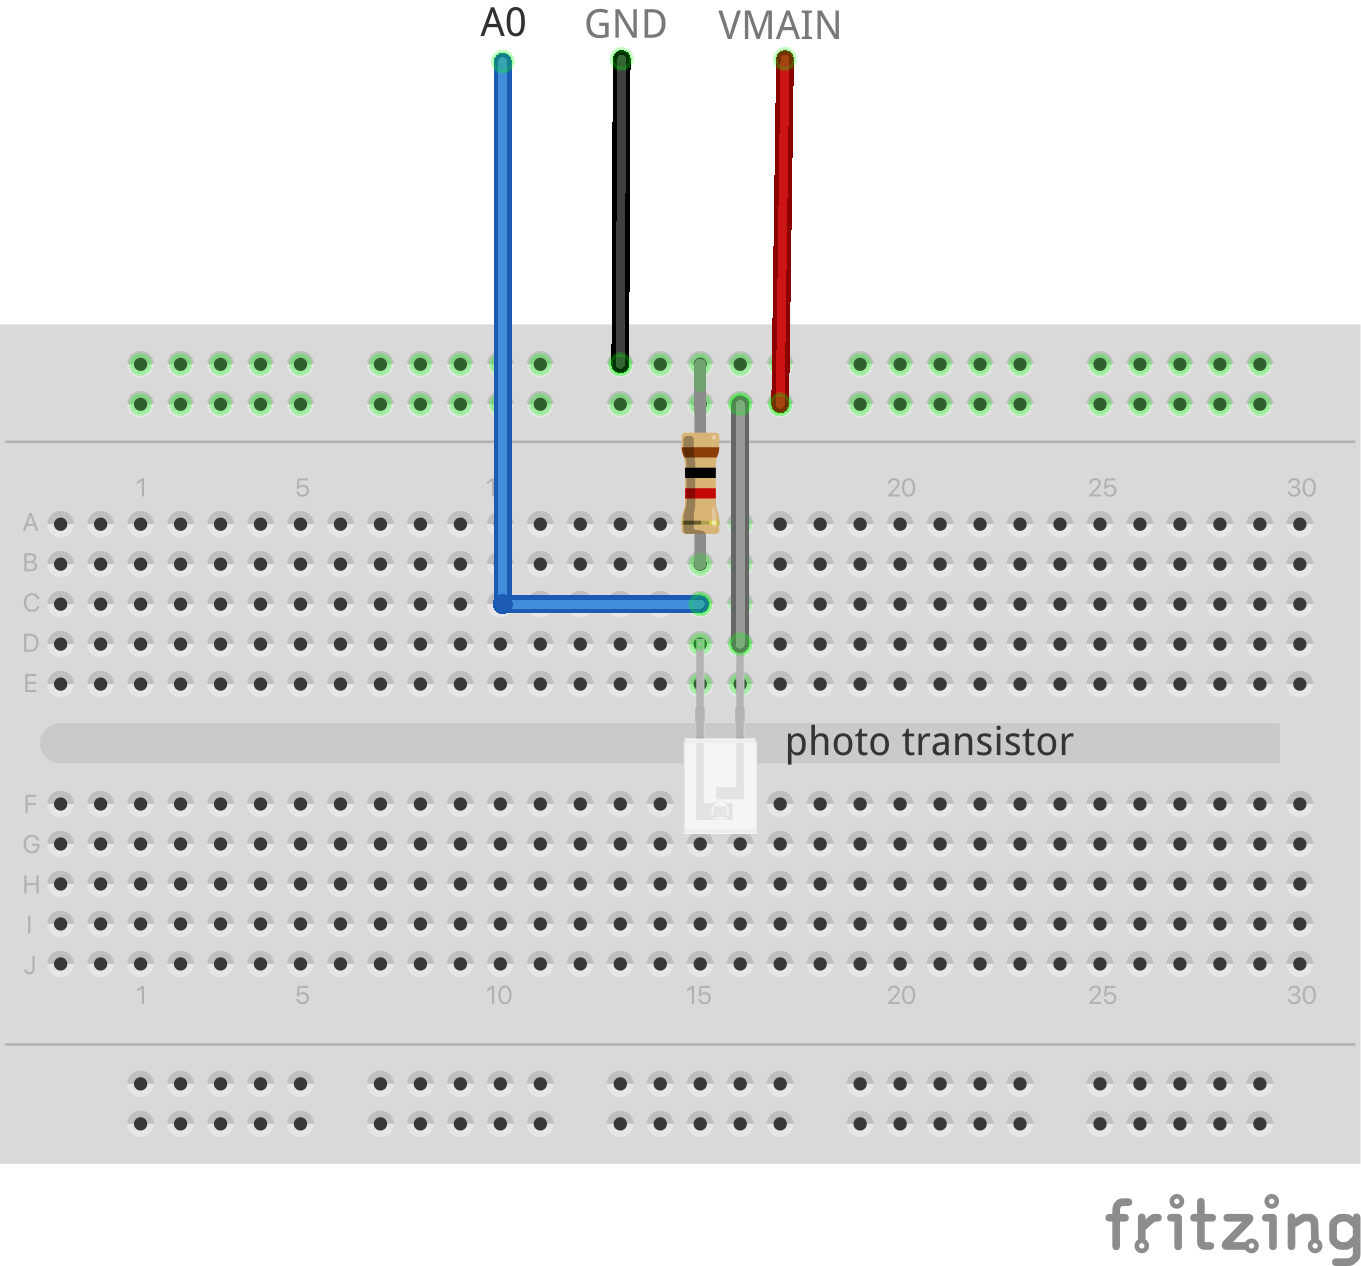
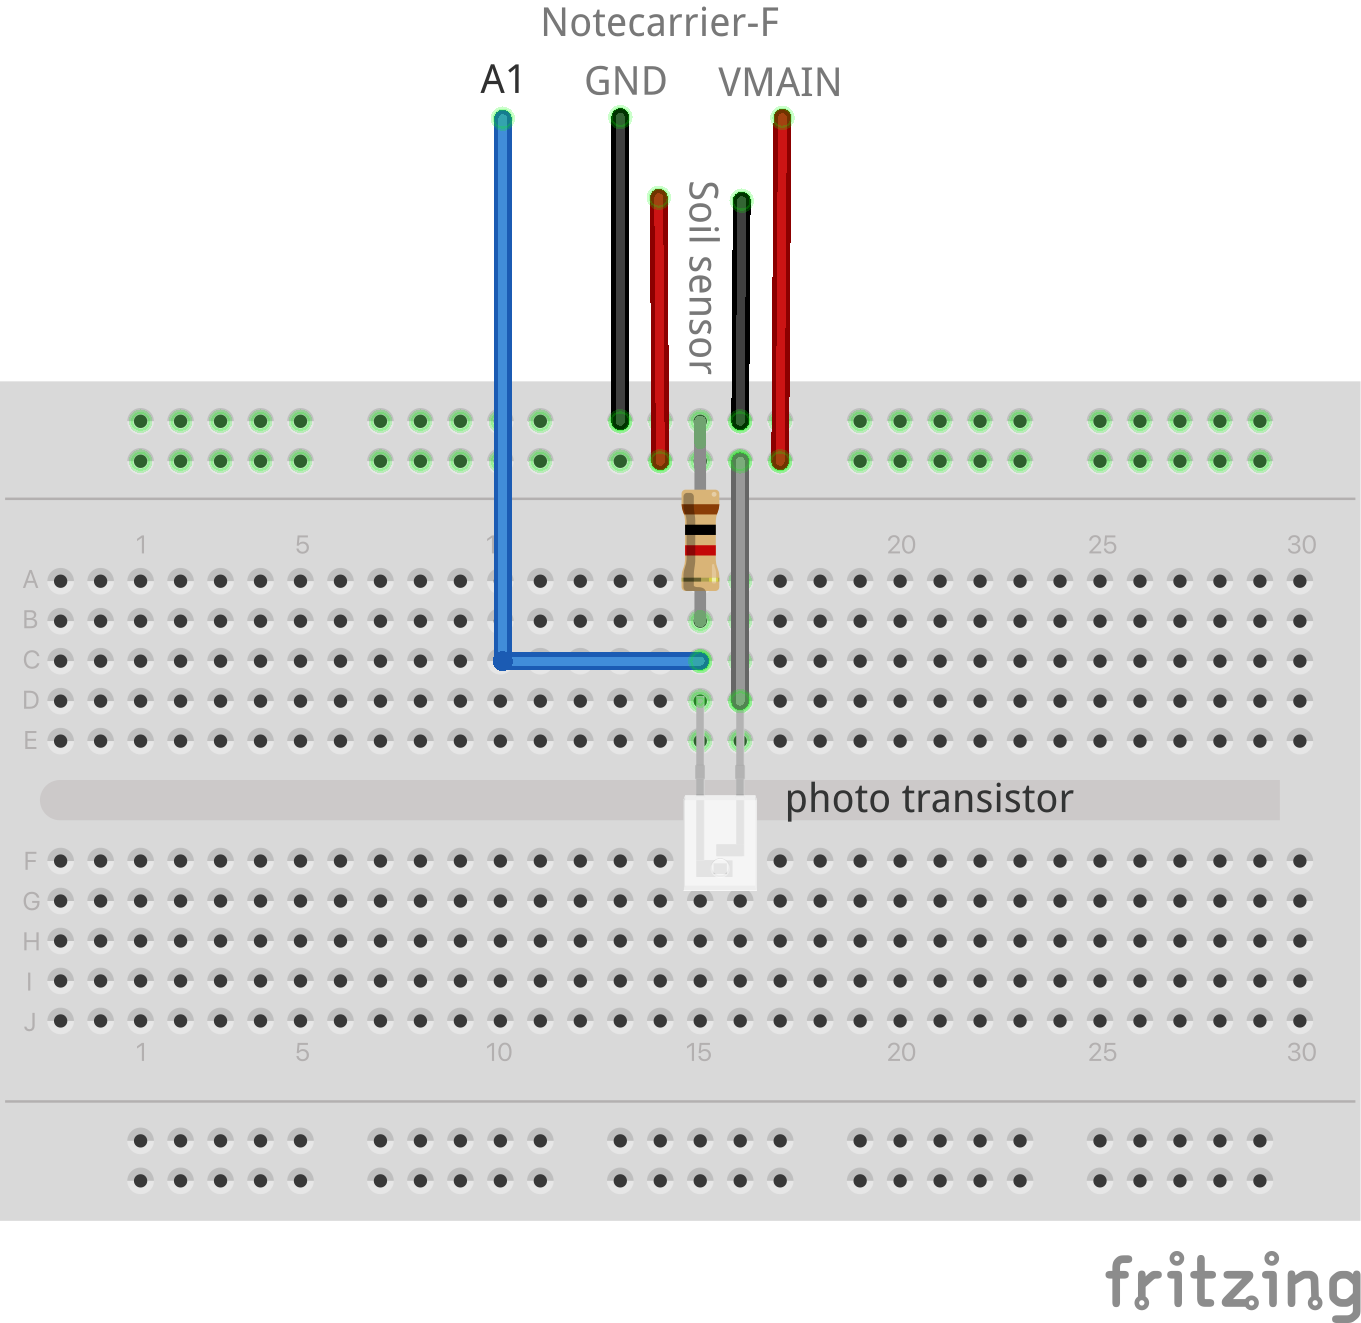
nf15

diff --git a/15-greenhouse-monitor/README.md b/15-greenhouse-monitor/README.md
@@ -31,7 +31,7 @@ when any of these fall outside specified ranges.
 
 ## Solution Summary
 
-This app provides a simple to construct greenhouse monitoring device that can be deployed inside a greenhouse to monitor soil moisture and temperature and ambient light and temperature. Using off-the-shelf hardware and modular components, this solution can be used to add monitoring to an existing greenhouse.
+This app provides a simple to construct greenhouse monitoring device that can be deployed inside a greenhouse. The app monitors soil moisture and soil temperature as well as ambient light and ambient temperature. Using off-the-shelf hardware and modular components, you can use this solution to add monitoring to an existing greenhouse.
 
 ## You Will Need
   * A [Blues Starter Kit](https://shop.blues.io/collections/blues-starter-kits), that contains amongst other things
@@ -66,9 +66,9 @@ This app provides a simple to construct greenhouse monitoring device that can be
       * `VMAIN` on Notecarrier to the positive power rail at the edge the breadboard
       * `A1` on Notecarrier to a row of points on the breadboard
 
-    2. Insert one leg of the 1k&Omega; resistor into the ground rail and the other leg to the same row of points connected to `A1` in last step above.
+    2. Insert one leg of the 1k&Omega; resistor into the ground rail, and the other leg to the same row of points connected to `A1` in last step above.
 
-    3. Insert the longer leg of the photo transistor into the positive power rail and the shorter leg into the same row of points as the A1 wire.
+    3. Insert the longer leg of the photo transistor into the positive power rail, and the shorter leg into the same row of points as the A1 wire.
 
     ![](./assets/phototransistor.png)
 
@@ -105,7 +105,7 @@ We recommend using the PlatformIO extension for Visual Studio Code, as this is t
 
 ### PlatformIO extension for VS Code
 
-There is no special setup required for the project beyond what is normally required to configure a PlatformIO project in VSCode. [This tutorial](https://dev.blues.io/quickstart/swan-quickstart/#using-the-vs-code-platformio-extension) explains how to install and use the PlatformIO.
+There is no special setup required for the project beyond what is normally required to configure a PlatformIO project in VSCode. [This tutorial](https://dev.blues.io/quickstart/swan-quickstart/#using-the-vs-code-platformio-extension) explains how to install and use PlatformIO.
 
 The PlatformIO project is located in the `firmware` folder, where you'll find `platformio.ini` that configures the project, including the libraries required, location of the sources and compile-time definitions required.
 
@@ -148,14 +148,14 @@ There are two ways to configure the `ProductUID`, either using the in-browser te
 2. Launch the in-browser terminal at [blues.dev](https://dev.blues.io/notecard-playground/)
 3. Click the "USB Notecard" button under "Connect a Notecard".
 4. Select the Notecard to connect to and click "Connect".
-5. The terminal will display the firmware version of Notecard.
+5. The terminal will display the firmware version of the Notecard.
 6. You can now enter a request to set the ProductUID and Serial Number of the device.
 
 ```json
 {"req":"hub.set", "product":"<your-productUID-from-notehub>", "sn":"greenhouse-monitor"}
 ```
 
-You can also omit the serial number use Notehub to set it:
+You can also omit the serial number and use Notehub to set it:
 
 1. Open the project in Notehub.
 2. From the list of devices, double click the device whose serial number you want to set.
@@ -205,11 +205,11 @@ The app senses and reports these values:
 
 * `air_pressure`: the air pressure in kPa
 
-* `soil_moisture`: an indication of how much moisture is in the soil. A higher value means more moisture, a lower value means less moisture.
+* `soil_moisture`: an indication of how much moisture is in the soil. A higher value means more moisture, a lower value means less moisture. For more details, see [Soil Moisture and Light Level](#soil-moisture-and-light-level).
 
-* `soil_temp`: the approximate soil temperature
+* `soil_temp`: the approximate soil temperature from the soil moisture sensor.
 
-* `light_level`: an indication of the ambient light level. A higher value means more ambient light, a lower value means less ambient light.
+* `light_level`: an indication of the ambient light level. A higher value means more ambient light, a lower value means less ambient light. For more details, see [Soil Moisture and Light Level](#soil-moisture-and-light-level).
 
 The sensor names are used both to report the values in monitoring and alert events, and as part of the environment variable names that you use to configure [alert thresholds](#alerts).
 
@@ -230,7 +230,7 @@ the readings of all sensors.
 }
 ```
 
-When alert thresholds are configured, and one or more sensor readings is outside of the normal range, the event also includes `alert` and `alert_seq` properties to indicate the severity of the alert and the progress of the alert. See the section on [Alerts](#alerts) for details about these properties.
+When alert thresholds are configured, and one or more sensor readings are outside of the normal range, the event also includes `alert` and `alert_seq` properties to indicate the severity of the alert and the progress of the alert. See the section on [Alerts](#alerts) for details about these properties.
 
 ### Configuration Updates and Errors
 
@@ -276,7 +276,7 @@ Changing several variables, with some of them set incorrectly leads to both upda
 
 ## Alerts
 
-In addition to reporting the sensor values, the app can send an alert should a particular sensor value be too high or too low. The app uses environment variables to configure alert ranges for each sensor. The alert ranges are:
+In addition to reporting the sensor values, the app can send an alert when a particular sensor value is too high or too low. The app uses environment variables to configure alert ranges for each sensor. The alert ranges are:
 
 * `normal`: Describes the normal range of values for the sensor. The app sends a `warning` alert when the sensor value is higher than the `high` threshold or lower than the `low` threshold.
 
@@ -341,7 +341,7 @@ When the app detects an alert condition, it captures details of the alert and se
 
 The event has these properties:
 
-* `alert`: Describes the overall alert level. This is the combined alert level of all of the sensors. Values are `warning`, `critical` or not present, meaning no alert, which happens when sensor readings return to normal.
+* `alert`: Describes the overall alert level. This is the highest alert level of all of the sensors. Values are `warning`, `critical`, or not present, meaning no alert, which happens when sensor readings return to normal.
 
 * `alert_seq`: Distinguishes between the start of an alert, an ongoing alert, and when an alert has been cleared. The property has these values:
 
@@ -363,7 +363,7 @@ The event has these properties:
 
 ### Soil Moisture and Light Level
 
-The `soil_moisture` and `light_level` are scalar readings that correlate to the amount of moisture in the soil and the amount of light, with more moisture and more light resulting is higher values, and less moisture and less light resulting in lower values. We suggest you use the app in the greenhouse for a few days, and use the monitoring data send to `greenhouse.qo` to determine the normal ranges for these values. You can then set the environment variables `soil_moisture_normal_low` etc.. to reflect the expected normal range of values.
+The `soil_moisture` and `light_level` are scalar readings that correlate to the amount of moisture in the soil and the amount of light, with more moisture and more light resulting is higher values, and less moisture and less light resulting in lower values. We suggest you use the app in the greenhouse for a few days, and t to `greenhouse.qo` to determine the normal ranges for these values. You can then set the environment variables `soil_moisture_normal_low` etc.. to reflect the expected normal range of values.
 
 ## Deploying to a Greenhouse
 
